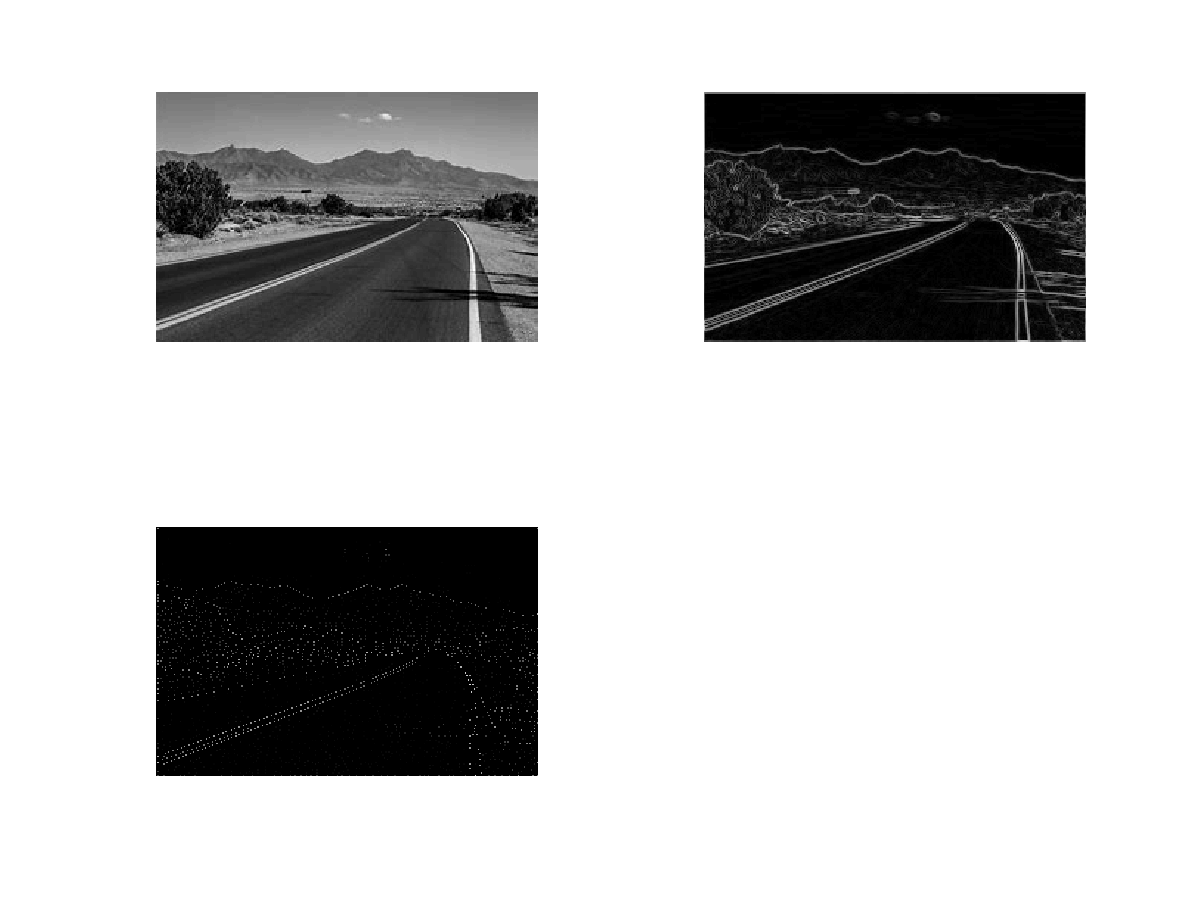
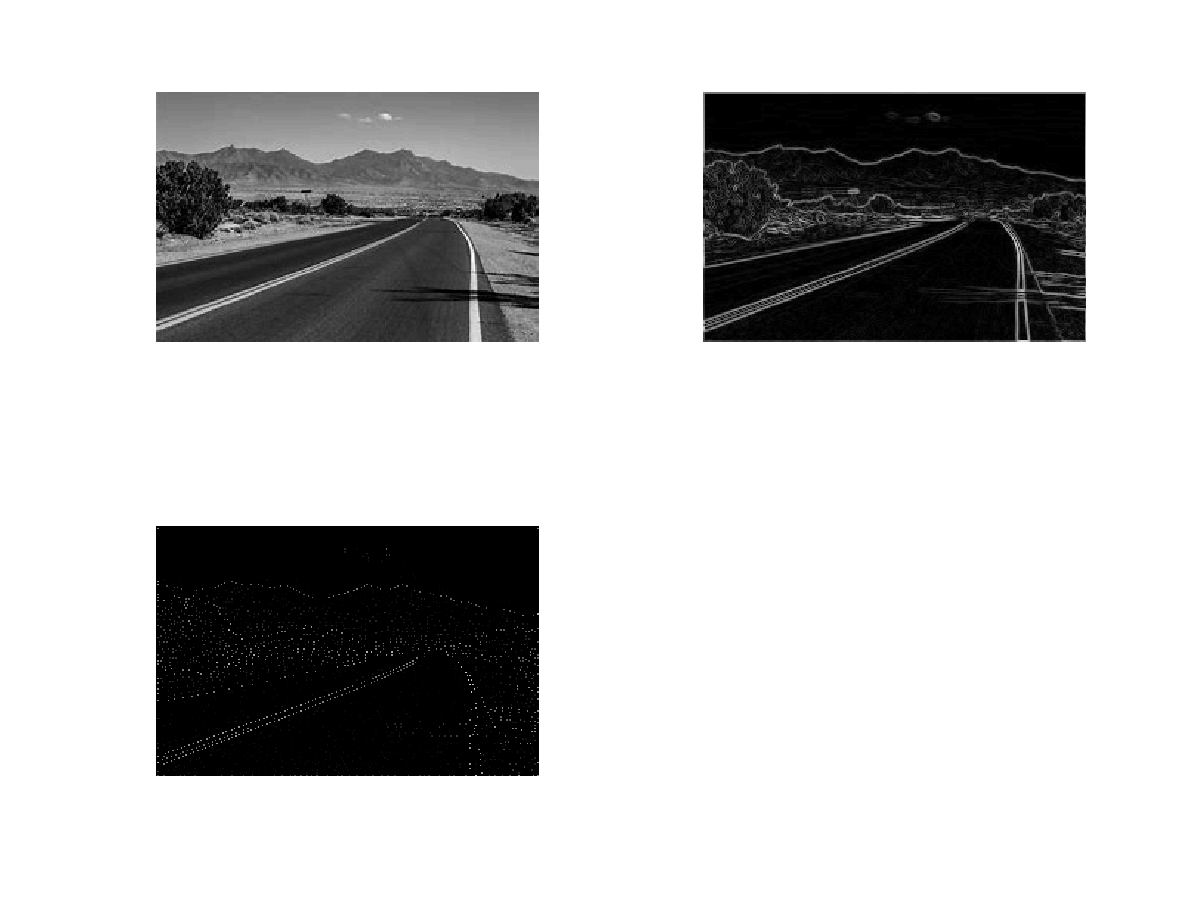
besprechung is durch

Changed region(s): [[0.5858, 0.1867, 0.6783, 0.28], [0.6167, 0.3111, 0.6783, 0.3422], [0.5858, 0.3422, 0.6167, 0.3733]]

diff --git a/I3DCV_Exercise_2/A1_exercises.m b/I3DCV_Exercise_2/A1_exercises.m
@@ -55,69 +55,8 @@
   
   endfunction
 
-  % (iii) 
-  function resulting_image = convolve_with_matrix33_flat_loops( img, kernel)
-     
-    % We are supposed to use "matrix33", so make sure the kernel has the right size
-    if (size(kernel)(1) != 3) or (size(kernel)(2) != 3)
-      disp("Wrong kernel size. It must be 3x3!")
-      return
-    endif
-    
-    kernel = flipdim(kernel ,1);
-    kernel = flipdim(kernel ,2);
-    
-    
-    % For our convolution, we need to provide boundary condition
-    % We are supposed to add zeros (= black pixels). With a 3x3 kernel, we need 
-    % to add one layer of zeros around the image
-    new_image = extended_img_1 = extended_img_2 = extended_img_3 = zeros(size(img)+2);
-    img_rows = size(img)(1);
-    img_cols = size(img)(2);
-    resulting_image = zeros(size(img));
-     
-    % The plan is, to add the valures horizontally for each row first
-    % To do this, we shift the row to the left and to the right and add
-    % these two with the sunshiftet vector:
-    
-    % Shifted to the left (Resulting in accessing values to the right):
-    extended_img_1(2:(1+img_rows),1:(img_cols)) = img;
-    % Normal placement:
-    extended_img_2(2:(1+img_rows),2:(1+img_cols)) = img;
-    % Shifted to the right (Resulting in accessing values to the left):
-    extended_img_3(2:(1+img_rows),3:(2+img_cols)) = img;
-    
-    % Convolution with two seperated loops:
-    % "Convolute" along rows first
-    for i = 2:(1+img_rows)
-            
-      % The first row of the kernel applied by adding :
-      new_image(i,:) += extended_img_3(i-1,:).*kernel(1,1);
-      new_image(i,:) += extended_img_2(i-1,:).*kernel(1,2);
-      new_image(i,:) += extended_img_1(i-1,:).*kernel(1,3);
-      % The second row of the kernel applied:
-      new_image(i,:) += extended_img_3(i,:).*kernel(2,1);
-      new_image(i,:) += extended_img_2(i,:).*kernel(2,2);
-      new_image(i,:) += extended_img_1(i,:).*kernel(2,3);   
-      % The last row of the kernel applied:
-      new_image(i,:) += extended_img_3(i+1,:).*kernel(3,1);
-      new_image(i,:) += extended_img_2(i+1,:).*kernel(3,2);
-      new_image(i,:) += extended_img_1(i+1,:).*kernel(3,3);
-      
-    endfor
-    
-    for a=1:1
-      % I think i was supposed to do this differently, but i don't need the second for loop anymore 
-      % But i wasn't able to solve the task in another way :'(
-    endfor
-    
-    % Cropping the new_image
-    resulting_image = new_image(2:(1+img_rows),2:(1+img_cols));
-    
-  endfunction
-
     % (iii) 
-  function resulting_image = convolve_with_two_vector13_flat_loops( img, kernel_x, kernel_y)
+  function resulting_image = convolve_with_matrix33_flat_loops( img, kernel_x, kernel_y)
      
     if (size(kernel_x)(1) != 1) || (size(kernel_x)(2) != 3)
       disp("Wrong kernel size. Kernel_x must be 1x3!")
@@ -141,12 +80,12 @@
     % for clarity reasons
     for i = 1:img_rows 
       % Convoluting horizontally
-      new_image = conv2(img,kernel_x,"same");
+      new_image(i,:) = conv(img(i,:),kernel_x,"same");
     endfor
     
     for j = 1:img_cols 
       % Convoluting vertically
-      resulting_image = conv2(new_image,kernel_y,"same");
+      resulting_image(:,j) = conv(new_image(:,j),kernel_y,"same");
     endfor
     
   endfunction
@@ -160,13 +99,9 @@
   % Debug "images"
   %A = [1,2,1,4,2;3,4,2,1,1;2,2,1,1,5;6,3,1,1,2;1,2,3,2,2]
   
-  % Make the kernel: Try out different kernels
-  % kernel = [ -1, 0, 1; -1, 0, 1; -1, 0, 1]; % Simple horizontal differentiation
-  % kernel = [ -1, -1, -1; 0, 0, 0; 1, 1, 1]; % Simple vertical differentiation
-  % kernel = [ 1, 1, 1; 1, 1, 1; 1, 1, 1]/9; % Simple mean / low pass filter
   % One can construct a kernel by convoluting the horizontal and the vertical kernel
-  kernel_x = [1, 1, 1];
-  kernel_y = [-1; 0; 1];
+  kernel_x = [1, 1, 1]/3;
+  kernel_y = [1; 1; 1]/3;
   kernel = conv2(kernel_x,kernel_y,"full")
   
   % "2. Convolve the image with the first function."
@@ -175,9 +110,7 @@
   result_1 = uint8(convolve_with_matrix33_nested_loops(grey_img, kernel));
 
   % "3. Convolve the image withe the second function"
-  result_2 = uint8(convolve_with_matrix33_flat_loops(grey_img, kernel));
-  
-  result_2b = uint8(convolve_with_two_vector13_flat_loops(grey_img, kernel_x, kernel_y));
+  result_2 = uint8(convolve_with_matrix33_flat_loops(grey_img, kernel_x, kernel_y));
   
   % "4. Convolve the image with the built-in Octave methods."
   result_3 = uint8(conv2(grey_img,kernel, "same")); % same: size(result) = size(img)
@@ -185,7 +118,7 @@
   % "5. Assert the results of these two are equal."
   % Since we are comparing to uint8-greyscale-images, we dont need tolerances 
   % and can directly compare:
-  if(result_1 == result_3 && result_1 == result_2 && result_2 == result_2b)
+  if(result_1 == result_3 && result_1 == result_2)
     % result_2 is only equal to result_2b if it was constructed by convoluting 
     % kernel x and kernel y
     disp("The results are the same")
@@ -195,19 +128,16 @@
   
   % Showing the different images:
   figure(1)
-  subplot(2,3,1)
+  subplot(2,2,1)
   imshow(grey_img);
   
-  subplot(2,3,2)
+  subplot(2,2,2)
   imshow(result_1);
   
-  subplot(2,3,3)
+  subplot(2,2,3)
   imshow(result_2);
   
-  subplot(2,3,4)
-  imshow(result_2b);
-  
-  subplot(2,3,5)
+  subplot(2,2,4)
   imshow(result_3);
   
 endfunction

diff --git a/I3DCV_Exercise_2/A2_exercises.m b/I3DCV_Exercise_2/A2_exercises.m
@@ -39,10 +39,8 @@ function A2_exercises
         
         % Lets reset the neighbourhood to an empty vector
         neighbouring_values = [];
-        
         % Get each value within the neighbourhood into a vector
-        for x = -neighbourhood_radius:neighbourhood_radius
-        
+        for x = -neighbourhood_radius:neighbourhood_radius 
              % Add this values to the neighbourhood (Directly take the part of the row we need)
              neighbouring_values = [neighbouring_values, extended_img(i+x,(j-neighbourhood_radius):(j+neighbourhood_radius)) ];
             
@@ -64,7 +62,7 @@ function A2_exercises
   salty_peppered_img = salt_and_pepper(grey_img,0.05,0.05);
   
   % "3. Convolve the image with your median filter."
-  neighbourhood_radius_without_self = 1;
+  neighbourhood_radius_without_self = 100;
   result_1 = uint8(convolve_with_median(salty_peppered_img,neighbourhood_radius_without_self));
   
   % "4. Convolve the image with the built-in Octave median filter."
